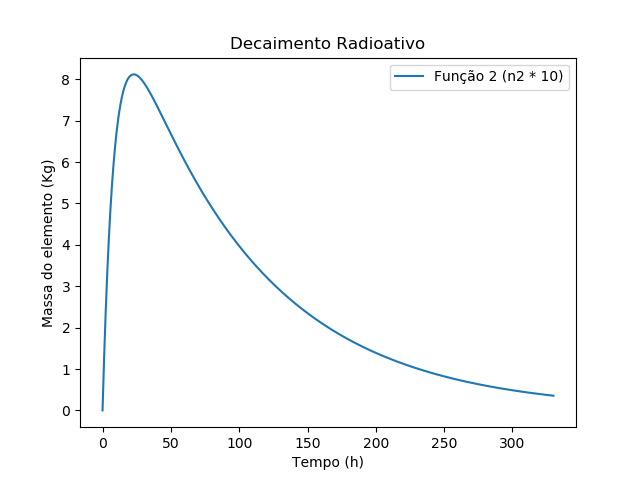
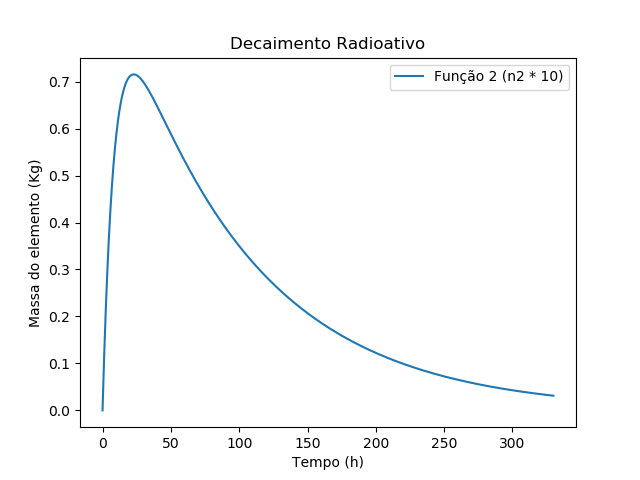
fix: mass elemente mo99 initial

diff --git a/app.py b/app.py
@@ -4,14 +4,12 @@ import matplotlib.pyplot as plt
 # Resolução, estudo e erro do problema de decaimento duplo, usando o algoritmo de Euler.
 # O evolução das quantidades dos material radiativos estão regidas pelas seguintes equações:
 
-# definindo lambda1 = 2 e lamda2 = 4
-
 lamb_one = 0.0105
 lamb_two = 0.1155
 
 delta_t = 0.001
 final_interval_t = 330
-f0_one = 11.35
+f0_one = 1
 f0_two = 0
 
 steps = np.arange(0, final_interval_t + delta_t, delta_t)
